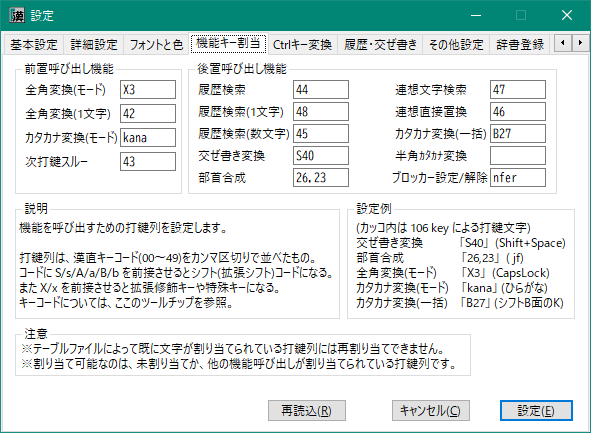
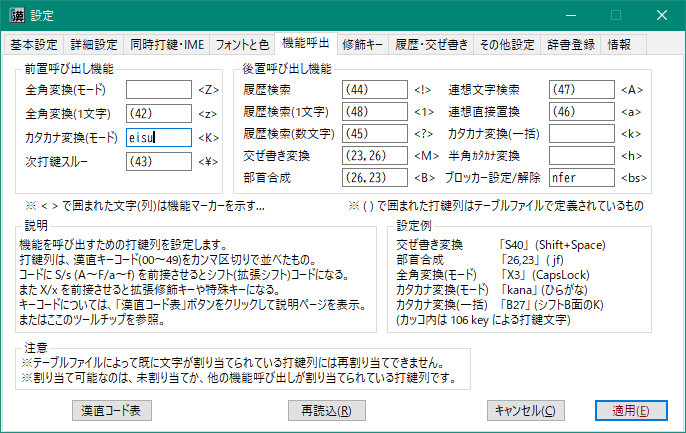
Update MANUAL and FAQ

diff --git a/MANUAL.md b/MANUAL.md
@@ -786,7 +786,7 @@ KanchokuWS は漢字直接入力以外に、以下のような補助入力機能
 ### 打鍵列への割り当て
 上記機能の呼び出しは、以下の方法で打鍵列に割り当てることができます。
 - テーブルファイルに「@{機能標識}」（例：`@M`）を記述する
-- 設定ダイアログの「機能キー割当」タブで設定する
+- 設定ダイアログの「機能呼出」タブで設定する
 
 #### 機能をテーブルファイルに記述
 これは従来からある方法となります。通常面だけでなく、シフト面、拡張シフト面にも設定することができます。
@@ -801,7 +801,7 @@ KanchokuWS は漢字直接入力以外に、以下のような補助入力機能
 
 #### 打鍵列を設定ダイアログで設定
 テーブルファイルには手を入れずに、
-設定ダイアログの「機能キー割当」タブで打鍵列を設定することもできます。
+設定ダイアログの「機能呼出」タブで打鍵列を設定することもできます。
 ここで設定した機能割り当ては、テーブルファイルによる設定を上書きします。
 設定方法の詳細については当該タブの説明文およびツールチップを参照ください。
 
@@ -1583,8 +1583,8 @@ CAB
 - Shiftキー(または拡張修飾キー)を押しながら入力したひらがなをカタカナに変換して出力するモード
 
 それぞれ、設定ダイアログの
-- 「機能キー割当」-「前置呼び出し機能」-「カタカナ変換(モード)」
-- 「機能キー割当」-「後置呼び出し機能」-「カタカナ変換(一括)」
+- 「機能呼出」-「前置呼び出し機能」-「カタカナ変換(モード)」
+- 「機能呼出」-「後置呼び出し機能」-「カタカナ変換(一括)」
 - 「その他設定」-「平仮名⇒片仮名変換」-「シフト入力されたひらがなをカタカナに変換する」
 
 のツールチップを参照ください。

diff --git a/FAQ/FAQ-配列作成.md b/FAQ/FAQ-配列作成.md
@@ -14,6 +14,7 @@
     - [連続シフトありの前置シフト](#連続シフトありの前置シフト)
     - [連続シフトありの相互シフト同時打鍵](#連続シフトありの相互シフト同時打鍵)
     - [ワンショット(連続シフトなし)の相互シフト同時打鍵](#ワンショット連続シフトなしの相互シフト同時打鍵)
+    - [Spaceキーとの同時打鍵を定義したい](#Spaceキーとの同時打鍵を定義したい)
     - [漢直モードがOFFの時(英数モードの時)も同時打鍵を有効にしたい](#漢直モードがOFFの時英数モードの時も同時打鍵を有効にしたい)
     - [打鍵列の定義が重複したときに警告を出したい](#打鍵列の定義が重複したときに警告を出したい)
     - [打鍵列の定義が重複しても警告を出したくない](#打鍵列の定義が重複しても警告を出したくない)

diff --git a/FAQ/FAQ-キーアサイン.md b/FAQ/FAQ-キーアサイン.md
@@ -19,7 +19,7 @@
 Space(SandS有効時)、CapsLock, 英数, 無変換, 変換, 右シフト, 左右コントロールの8つの機能キーを修飾キーとして使用し、
 通常シフト面、拡張シフト面A～F のいずれかに割り当てることができます。
 
-この機能を使用する場合は、下図のように「その他設定」>「拡張修飾キー」で
+この機能を使用する場合は、下図のように「修飾キー」>「拡張修飾キー」で
 「有効」にチェックを入れ、修飾キー変換の定義ファイル名を設定してください。
 
 ![Mod Conv](image/mod-conv.png)
